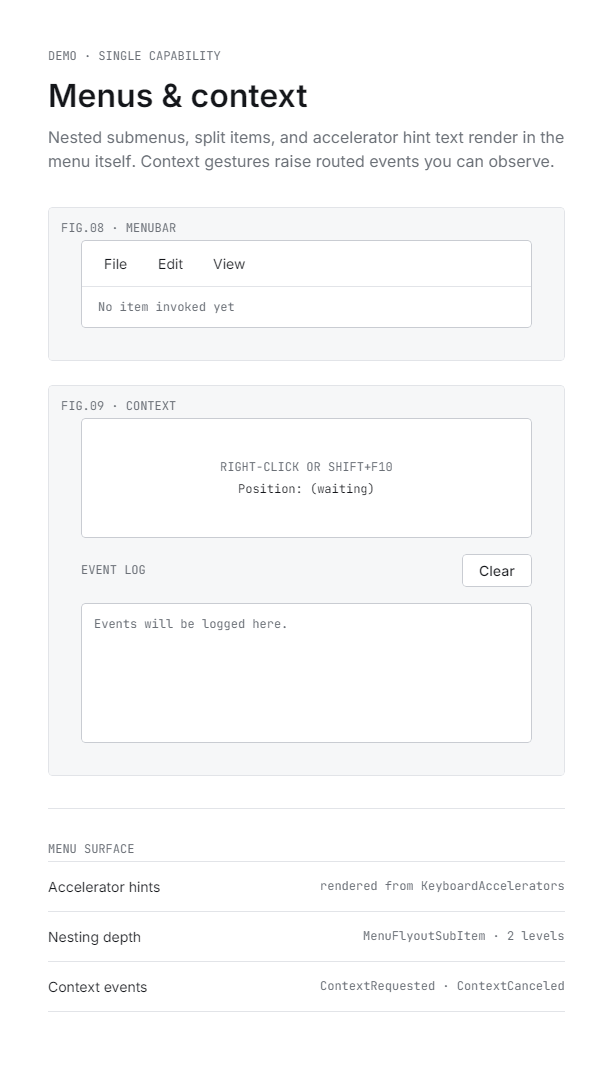
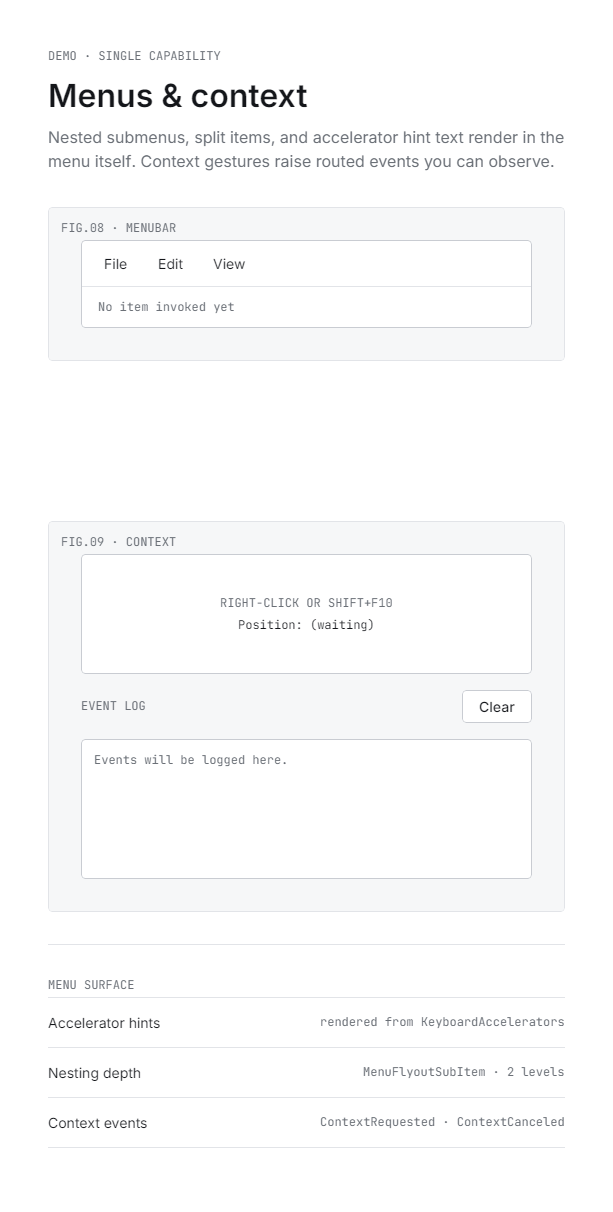
fix: give the menu bar drop room above the context figure
An open File > New > From template chain extends about 200px below the menu
bar, which put two levels of submenu across FIG.09 and its label. Flyouts are
popups, so nothing about z-order or clipping solves it; the figures have to be
far enough apart.

Widens the gap to 160px, placed as FIG.09's top margin rather than as bottom
padding inside FIG.08, which would have read as an empty card.

Measured, not guessed: FIG.08's card ends at y=361 and the deepest submenu
bottom lands at ~549 against FIG.09's new top at 568.

Claude-Session: https://claude.ai/code/session_01KaLovPXVSQSFojBUcc2EN8

diff --git a/A11yCapture/Presentation/Sections/MenuFlyoutSection.xaml b/A11yCapture/Presentation/Sections/MenuFlyoutSection.xaml
@@ -127,13 +127,18 @@
       </Grid>
     </Border>
 
-    <!-- Stage 2: context surface -->
+    <!-- Stage 2: context surface.
+         Flyouts are popups, so an open File > New > From template chain paints
+         over whatever sits beneath it. Measured at ~200px below the menu bar,
+         which clears FIG.08's own card by ~136px. That much extra gap goes here
+         rather than as padding inside FIG.08, where it would read as an empty
+         card instead of deliberate separation. -->
     <Border Background="{StaticResource LabGray1Brush}"
             BorderBrush="{StaticResource LabLineBrush}"
             BorderThickness="1"
             CornerRadius="{StaticResource LabRadius}"
             Padding="32"
-            Margin="0,24,0,0">
+            Margin="0,160,0,0">
       <Grid>
         <TextBlock Text="FIG.09 · CONTEXT" Style="{StaticResource LabKicker}"
                    VerticalAlignment="Top" HorizontalAlignment="Left"
